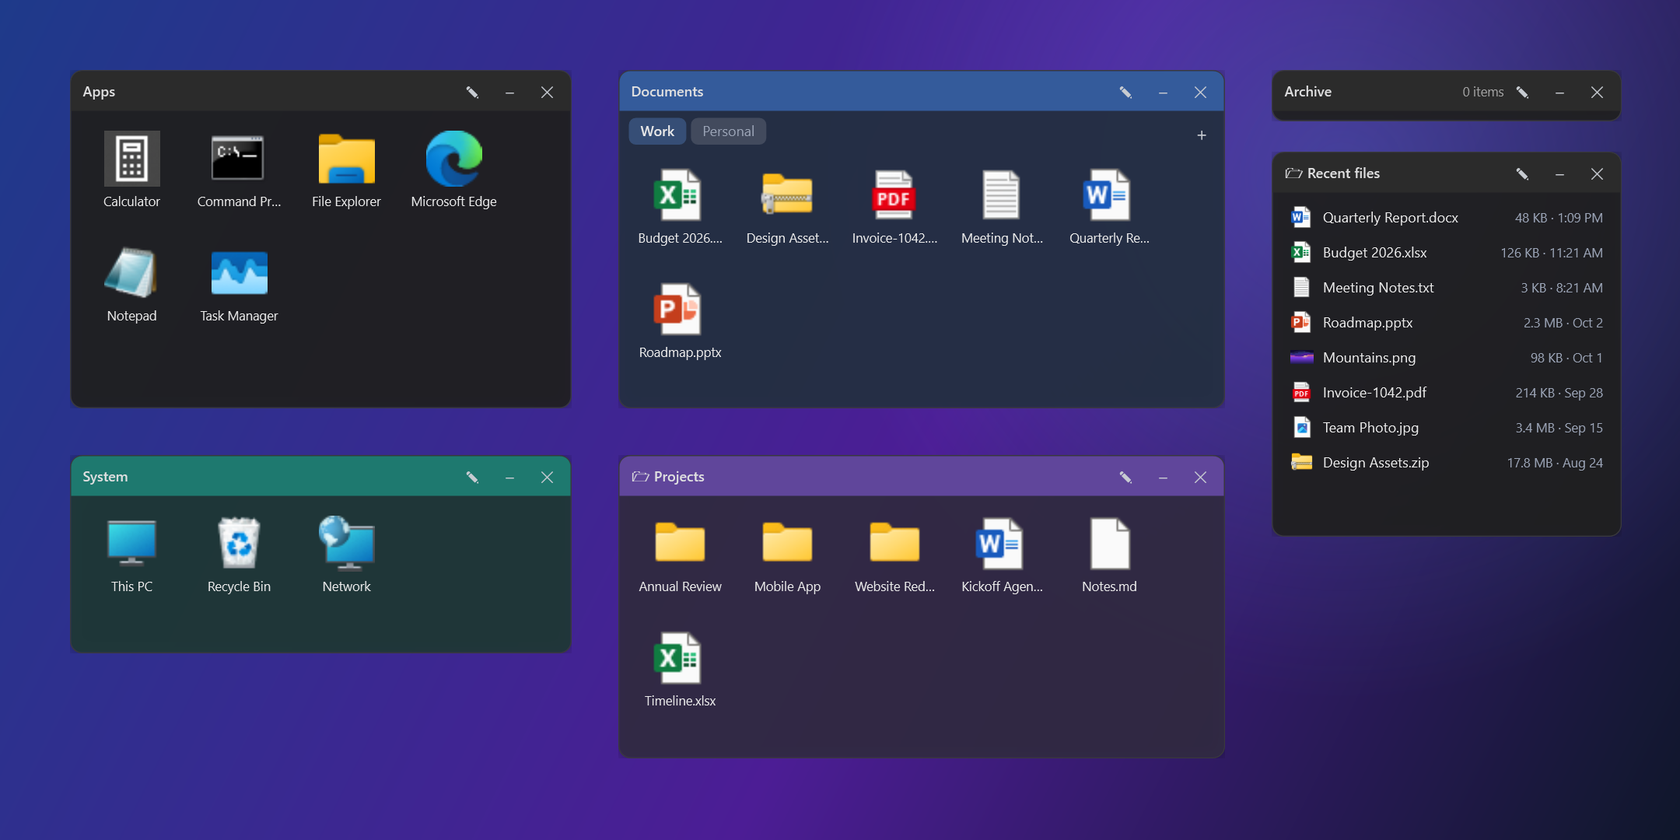
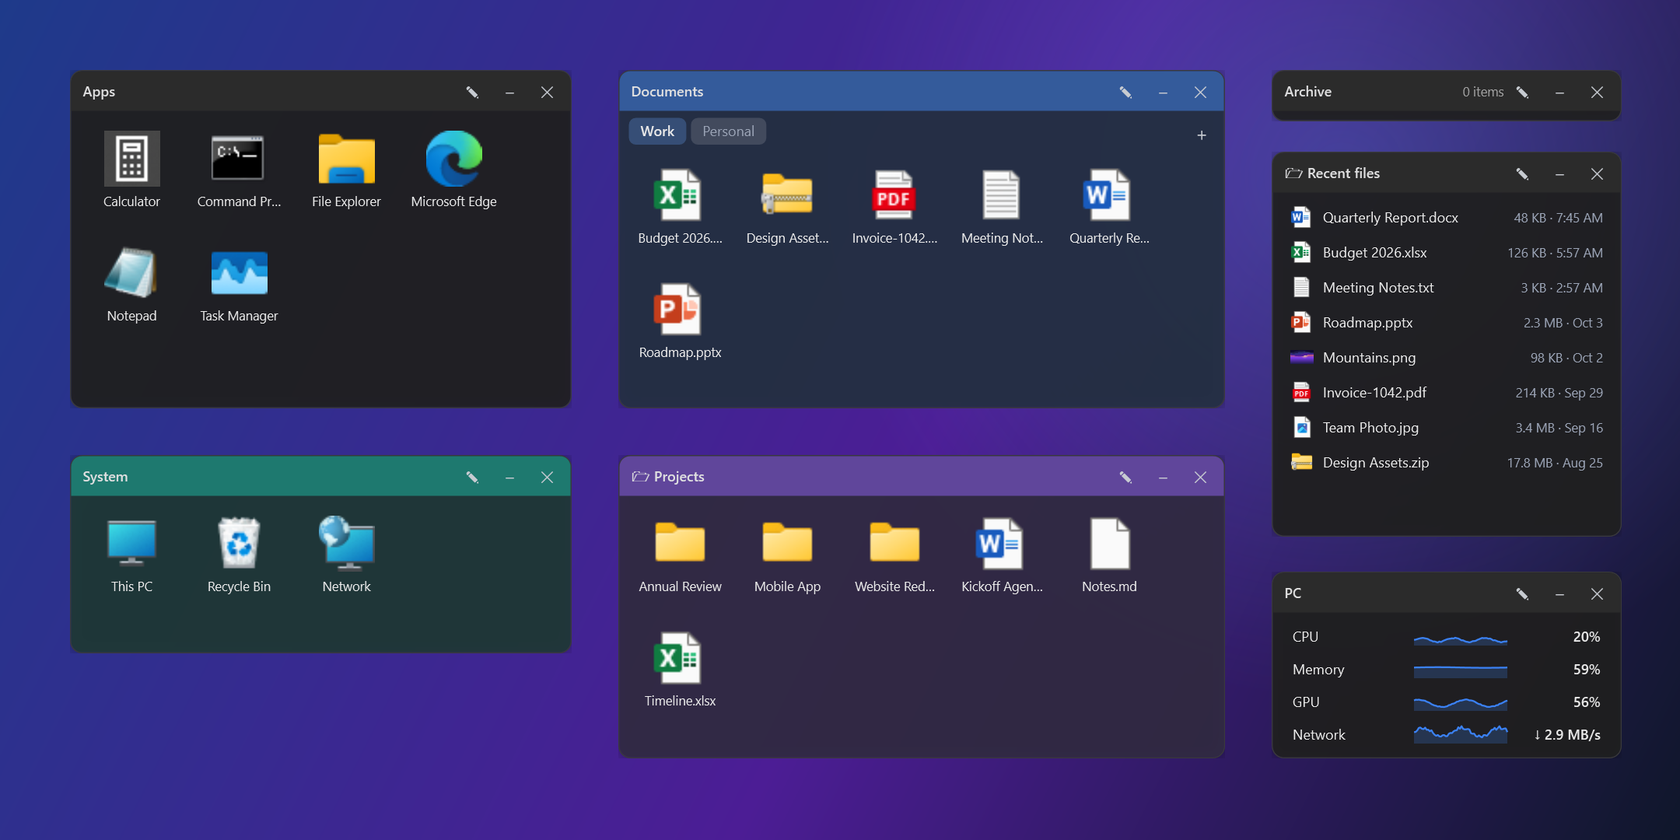
Docs and website: system monitor screenshots and features
- tools/Screenshots renders two new shots with demo readings
  (screenshot-monitor.png, screenshot-monitor-settings.png) and adds a
  list-view monitor to the desktop and search shots; the Home shot shows
  the System monitor tile. All screenshots re-rendered.
- README: a "Watch your PC" feature section, new screenshots, usage line,
  and a known limitation for counter-based tiles.
- Website: System monitor feature card and two sections with the new
  screenshots; updated description.
- Privacy policy: what system monitors read (usage figures and the local
  IP address) and that none of it is saved or sent.

Changed region(s): [[0.7444, 0.6722, 0.9926, 0.9167], [0.8995, 0.2444, 0.9306, 0.3056]]

diff --git a/site/index.html b/site/index.html
@@ -4,7 +4,7 @@
   <meta charset="utf-8">
   <meta name="viewport" content="width=device-width, initial-scale=1">
   <title>Pickets</title>
-  <meta name="description" content="Pickets (formerly OpenFences) is a free, open-source alternative to Stardock Fences that organizes your Windows desktop into movable, resizable fences.">
+  <meta name="description" content="Pickets (formerly OpenFences) is a free, open-source alternative to Stardock Fences that organizes your Windows desktop into movable, resizable fences, with live system monitor fences for CPU, GPU, memory, disk and network.">
   <link rel="icon" href="assets/open-fence.png">
   <link rel="stylesheet" href="styles.css">
 </head>
@@ -35,7 +35,7 @@
       </div>
       <p class="meta">Formerly OpenFences · Free and open source (MIT) · x64 and ARM64 · Updates itself</p>
       <img class="hero-shot" src="assets/screenshot-desktop.png"
-           alt="Fences on a Windows desktop: Apps, Documents and System fences, a Projects folder portal and a rolled-up Archive fence">
+           alt="Fences on a Windows desktop: Apps, Documents and System fences, a Projects folder portal, a rolled-up Archive fence, a Recent files list and a PC system monitor">
     </div>
   </div>
 
@@ -54,6 +54,9 @@
         <div class="feature"><span class="glyph" aria-hidden="true">🗁</span>
           <h3>Folder portals</h3>
           <p>Show any folder as a live fence and browse into its subfolders without opening Explorer.</p></div>
+        <div class="feature"><span class="glyph" aria-hidden="true">📈</span>
+          <h3>System monitor</h3>
+          <p>Live CPU, GPU, memory, disk, network and battery readings with graphs, in a fence you arrange tile by tile.</p></div>
         <div class="feature"><span class="glyph" aria-hidden="true">⌕</span>
           <h3>Search everything</h3>
           <p>Press <kbd>Ctrl</kbd>+<kbd>Alt</kbd>+<kbd>F</kbd> to find any item in any fence. <kbd>Ctrl</kbd>+<kbd>Alt</kbd>+<kbd>H</kbd> hides or shows them all. Both shortcuts can be changed.</p></div>
@@ -90,6 +93,27 @@
       <div>
         <h2>Pictures and videos behind your icons</h2>
         <p class="section-lead">Give any fence a picture or a looping video background. It fades with the fence's transparency, can be darkened so labels stay readable, and pauses while the fence is hidden or rolled up.</p>
+      </div>
+    </div>
+  </section>
+
+  <section id="monitor">
+    <div class="wrap split">
+      <div>
+        <h2>Keep an eye on your PC</h2>
+        <p class="section-lead">A system monitor fence shows live readings right on your desktop: CPU and each of its cores, memory, GPU, free space on every drive, disk and network speed, your connection's address, battery and the time. Add, remove, rename and reorder tiles, turn graphs off, and let warning colors tell you when something's busy, nearly full or running low. Double-click a reading for Task Manager or the matching Windows settings.</p>
+        <p>It reads only what its tiles show, straight from Windows, and stops entirely while it's rolled up, hidden or the PC is locked.</p>
+      </div>
+      <img src="assets/screenshot-monitor.png" alt="A system monitor fence with CPU, memory, GPU, per-core, network, disk activity, drive space and battery tiles, next to a compact list-view monitor">
+    </div>
+  </section>
+
+  <section>
+    <div class="wrap split">
+      <img src="assets/screenshot-monitor-settings.png" alt="Settings, System monitor: update interval, graph length, units, warning colors and the tile editor">
+      <div>
+        <h2>Tuned in Settings</h2>
+        <p class="section-lead">Settings has a System monitor section: choose how often monitors update and how much history the graphs show, switch speeds to Mbps, turn warning colors on or off, and edit any monitor's tiles in one list.</p>
       </div>
     </div>
   </section>

diff --git a/site/privacy.html b/site/privacy.html
@@ -25,7 +25,7 @@
 
 <main class="doc">
   <h1>Privacy policy</h1>
-  <p class="updated">Last updated: October 3, 2026</p>
+  <p class="updated">Last updated: October 5, 2026</p>
 
   <div class="callout">
     <strong>In short:</strong> Pickets doesn't collect, store or share any personal information. It has no
@@ -78,6 +78,9 @@
   </table>
   <p>While it runs, Pickets also reads your desktop folders and their icons and thumbnails (through
   Windows), and hides the normal desktop icons, restoring them when it exits. None of this leaves your PC.</p>
+  <p>System monitor fences, if you add one, read usage figures from Windows (processor, memory, graphics,
+  drives, network adapters, battery) and the local IP address of your network connection, only to show them on
+  your desktop. Readings aren't saved or sent anywhere; the settings file keeps only which tiles each monitor shows.</p>
   <p>Versions released before the rename used the folder <code>%AppData%\OpenFences</code>. The first time
   Pickets starts, it moves that folder to <code>%AppData%\Pickets</code> and updates the "start with Windows"
   entry, so your fences carry over.</p>

diff --git a/tools/Screenshots/Program.cs b/tools/Screenshots/Program.cs
@@ -13,6 +13,7 @@ using System.Windows.Media;
 using System.Windows.Media.Imaging;
 using System.Windows.Threading;
 using Pickets;
+using Pickets.Services;
 
 internal static class Program
 {
@@ -45,7 +46,11 @@ internal static class Program
         try
         {
             _demo = CreateDemoFolder();
+            // System monitors show made-up readings, never this PC's own (its address, drives…).
+            SystemMonitor.ShowFixed(Array.Empty<SystemSnapshot>());
             var fences = BuildFences();
+            var monitors = BuildMonitors();
+            SystemMonitor.ShowFixed(DemoReadings()); // a minute of history for the graphs
 
             // Icons load on a background thread; give them time to arrive.
             After(TimeSpan.FromSeconds(4), () =>
@@ -58,7 +63,9 @@ internal static class Program
                 SaveAppWindow(fences, "screenshot-app-light.png");
                 UsePalette("Dark");
                 SaveQuickLook(fences, "screenshot-quicklook.png");
-                foreach (var f in fences) f.Close();
+                SaveMonitors(monitors, "screenshot-monitor.png");
+                SaveMonitorSettings(monitors[0], "screenshot-monitor-settings.png");
+                foreach (var f in fences.Concat(monitors)) f.Close();
                 Console.WriteLine("Saved screenshots to " + _outDir);
                 System.Windows.Application.Current.Shutdown();
             });
@@ -171,8 +178,79 @@ internal static class Program
                 Sort = FenceSort.DateModified, PortalFilter = ".docx .xlsx .pptx .pdf .txt .jpg .png .zip",
                 Left = 1090, Top = 130, Width = 300, Height = 330
             },
+            // A system monitor in list view.
+            new FenceModel
+            {
+                Name = "PC", IsMonitor = true, View = FenceView.List, Left = 1090, Top = 490, Width = 300, Height = 160,
+                Tiles = Tiles(MonitorMetrics.Cpu, MonitorMetrics.Memory, MonitorMetrics.Gpu, MonitorMetrics.Network)
+            },
         };
+        return Open(models);
+    }
 
+    private static List<MonitorTileConfig> Tiles(params string[] kinds) =>
+        kinds.Select(k => k.StartsWith("disk:") ? new MonitorTileConfig { Kind = MonitorMetrics.Disk, Drive = k[5..] }
+                                                : new MonitorTileConfig { Kind = k }).ToList();
+
+    // The system monitor screenshot: a full monitor with every kind of graph, and a compact one.
+    private static List<FenceWindow> BuildMonitors()
+    {
+        var models = new[]
+        {
+            new FenceModel
+            {
+                // Sized by hand: fitting to contents needs a window on a screen.
+                Name = "System", IsMonitor = true, Left = 50, Top = 50, Width = 520, Height = 392,
+                Tiles = Tiles(MonitorMetrics.Cpu, MonitorMetrics.Memory, MonitorMetrics.Gpu,
+                              MonitorMetrics.Cores, MonitorMetrics.Network, MonitorMetrics.DiskIo,
+                              "disk:C:", "disk:D:", MonitorMetrics.Battery)
+            },
+            new FenceModel
+            {
+                Name = "At a glance", IsMonitor = true, View = FenceView.List, AccentColor = "#14B8A6",
+                Left = 610, Top = 50, Width = 400, Height = 190,
+                Tiles = Tiles(MonitorMetrics.Clock, MonitorMetrics.NetInfo, MonitorMetrics.Cpu, MonitorMetrics.Memory, MonitorMetrics.Battery)
+            },
+        };
+        return Open(models);
+    }
+
+    // A minute of believable, gently changing readings (oldest first). Drive D: is nearly full,
+    // so the warning color shows.
+    private static IEnumerable<SystemSnapshot> DemoReadings()
+    {
+        const long GB = 1024L * 1024 * 1024;
+        var rnd = new Random(42);
+        for (int i = 0; i < 60; i++)
+        {
+            double t = i / 60.0 * Math.PI * 2;
+            double cpu = 24 + 12 * Math.Sin(t * 3) + rnd.NextDouble() * 6;
+            yield return new SystemSnapshot
+            {
+                CpuPercent = cpu,
+                Processors = 12,
+                CoreLoads = Enumerable.Range(0, 12).Select(c => Math.Clamp(cpu + 30 * Math.Sin(c * 1.7 + i / 4.0), 2, 98)).ToList(),
+                MemoryUsed = (ulong)((9.4 + 0.3 * Math.Sin(t)) * GB),
+                MemoryTotal = 16UL * (ulong)GB,
+                GpuPercent = 38 + 22 * Math.Sin(t * 2 + 1) + rnd.NextDouble() * 4,
+                Drives = new[]
+                {
+                    new DriveSample("C:", "Windows", 1000 * GB, 412 * GB),
+                    new DriveSample("D:", "Games", 2000 * GB, 168 * GB),
+                },
+                DiskReadBytesPerSec = (6 + 5 * Math.Max(0, Math.Sin(t * 4))) * 1024 * 1024,
+                DiskWriteBytesPerSec = (1.5 + rnd.NextDouble()) * 1024 * 1024,
+                NetDownBytesPerSec = (2.4 + 1.4 * Math.Sin(t * 2.5) + rnd.NextDouble()) * 1024 * 1024,
+                NetUpBytesPerSec = (280 + 90 * rnd.NextDouble()) * 1024,
+                NetName = "Wi-Fi",
+                NetAddress = "192.168.1.24",
+                Battery = new BatterySample(76, PluggedIn: false, Charging: false, SecondsLeft: 3 * 3600 + 12 * 60),
+            };
+        }
+    }
+
+    private static List<FenceWindow> Open(IEnumerable<FenceModel> models)
+    {
         var windows = new List<FenceWindow>();
         foreach (var m in models)
         {
@@ -182,7 +260,7 @@ internal static class Program
             // Off-screen: rendered to bitmaps, never seen on the real desktop. Moved after Show,
             // since a fence places itself where its model says once its window exists.
             w.Show();
-            w.Left = -30000 + windows.Count * 2000;
+            w.Left = -30000 + _opened++ * 2000;
             w.Top = -30000;
             windows.Add(w);
         }
@@ -190,6 +268,8 @@ internal static class Program
     }
 
     // ---------- Rendering ----------
+
+    private static int _opened;
 
     private const double SceneW = 1440, SceneH = 720;
 
@@ -211,7 +291,8 @@ internal static class Program
         // A soft glow so the wallpaper isn't a flat gradient.
         var glow = new System.Windows.Shapes.Ellipse
         {
-            Width = 900, Height = 900,
+            Width = 900,
+            Height = 900,
             Fill = new RadialGradientBrush(Color.FromArgb(70, 0x60, 0xA5, 0xFA), Color.FromArgb(0, 0x60, 0xA5, 0xFA))
         };
         Canvas.SetLeft(glow, 700);
@@ -244,21 +325,27 @@ internal static class Program
 
     // The main window (Home page), loaded from its XAML with these demo fences listed. The
     // real window can't be created here: its constructor takes over the desktop.
-    private static void SaveAppWindow(List<FenceWindow> fences, string file)
+    private static Window LoadHub(double height)
     {
         var xamlPath = FindRepoFile(Path.Combine("Pickets", "MainWindow.xaml"));
         var xaml = File.ReadAllText(xamlPath).Replace("x:Class=\"Pickets.MainWindow\"", "");
         xaml = Regex.Replace(xaml, @"\s(Click|Checked|PreviewKeyDown|GotKeyboardFocus|LostKeyboardFocus)=""[^""]*""", "");
         xaml = xaml.Replace("Source=\"Themes/HubStyles.xaml\"", "Source=\"pack://application:,,,/Pickets;component/Themes/HubStyles.xaml\"");
         var w = (Window)XamlReader.Parse(xaml);
-        w.Width = 1080; w.Height = 720;
+        w.Width = 1080; w.Height = height;
         w.Left = -40000; w.Top = -40000;
         w.Show();
+        ((TextBlock)w.FindName("SidebarVersion")).Text = ""; // would go stale with every release
+        return w;
+    }
+
+    private static void SaveAppWindow(List<FenceWindow> fences, string file)
+    {
+        var w = LoadHub(720);
 
         T Find<T>(string name) where T : class => (w.FindName(name) as T)!;
         Brush B(string c) => (Brush)new BrushConverter().ConvertFromString(c)!;
         Brush R(string key) => (Brush)System.Windows.Application.Current.FindResource(key); // current palette
-        Find<TextBlock>("SidebarVersion").Text = ""; // would go stale with every release
         Find<Button>("ToggleAllButton").Content = "Hide all fences";
         Find<TextBlock>("SearchTileHint").Text = "Find any item (Ctrl+Alt+F)"; // as the app shows it: never split
         Find<Button>("ProfileButton").Content = "Work  ▾"; // a desktop profile in use
@@ -267,7 +354,8 @@ internal static class Program
         {
             Name = f.FenceName,
             Details = f.IsPortal ? $"Folder portal · {f.ItemCount} items"
-                                 : f.TabCount > 0 ? $"{f.ItemCount} items · {f.TabCount} tabs" : $"{f.ItemCount} items",
+                    : f.IsMonitor ? "System monitor · " + f.MonitorSummary
+                    : f.TabCount > 0 ? $"{f.ItemCount} items · {f.TabCount} tabs" : $"{f.ItemCount} items",
             Swatch = string.IsNullOrEmpty(f.AccentColor) ? R("Hub.Swatch") : B(f.AccentColor!),
             State = f.IsCollapsed ? "Rolled up" : "Shown",
             StateBrush = f.IsCollapsed ? R("Hub.StateRolled") : R("Hub.StateShown"),
@@ -275,11 +363,57 @@ internal static class Program
         }).ToList();
         Find<ItemsControl>("FenceList").ItemsSource = rows;
         Find<TextBlock>("SummaryText").Text =
-            $"{rows.Count} fences · {fences.Where(f => !f.IsPortal).Sum(f => f.ItemCount)} desktop items";
+            $"{rows.Count} fences · {fences.Where(f => !f.IsPortal && !f.IsMonitor).Sum(f => f.ItemCount)} desktop items";
         Flush();
 
         var root = (FrameworkElement)w.Content;
         Save(root, file);
+        w.Close();
+    }
+
+    // Two system monitors over the wallpaper.
+    private static void SaveMonitors(List<FenceWindow> monitors, string file)
+    {
+        // A focused tile would show its keyboard outline: nothing here has seen a mouse.
+        System.Windows.Input.Keyboard.ClearFocus();
+        Flush();
+        var scene = Scene();
+        scene.Width = 1060;
+        scene.Height = monitors.Max(m => ((Point)m.Tag).Y + m.ActualHeight) + 50;
+        foreach (var m in monitors)
+            Place(scene, Snapshot(m), (Point)m.Tag, m.ActualWidth, m.ActualHeight);
+        Save(scene, file);
+    }
+
+    // Settings → System monitor, editing the big monitor's tiles.
+    private static void SaveMonitorSettings(FenceWindow monitor, string file)
+    {
+        var w = LoadHub(1240);
+        T Find<T>(string name) where T : class => (w.FindName(name) as T)!;
+
+        Find<RadioButton>("NavSettings").IsChecked = true;
+        Find<FrameworkElement>("HomePage").Visibility = Visibility.Collapsed;
+        var page = Find<StackPanel>("SettingsPage");
+        page.Visibility = Visibility.Visible;
+        page.DataContext = new AppOptions();
+
+        // Just the page title and the System monitor section (its heading and two cards).
+        int start = page.Children.IndexOf(Find<FrameworkElement>("MonitorSection"));
+        for (int i = 0; i < page.Children.Count; i++)
+            page.Children[i].Visibility = i < 2 || (i >= start && i <= start + 2) ? Visibility.Visible : Visibility.Collapsed;
+
+        Find<Button>("MonitorIntervalButton").Content = "2 seconds  ▾";
+        Find<Button>("MonitorHistoryButton").Content = "2 minutes  ▾";
+        Find<Button>("MonitorPickButton").Content = monitor.FenceName + "  ▾";
+        Find<TextBlock>("MonitorTilesHint").Text = "Choose a monitor, then add, remove, rename and reorder its tiles.";
+        var labels = new Dictionary<string, string> { ["C:"] = "Windows", ["D:"] = "Games" };
+        var tiles = monitor.MonitorConfig;
+        Find<ItemsControl>("MonitorTileList").ItemsSource = tiles
+            .Select((t, i) => new MainWindow.MonitorTileRow(t, i, tiles.Count, t.Drive != null ? labels.GetValueOrDefault(t.Drive) : null, (_, __) => { }))
+            .ToList();
+        Flush();
+
+        Save((FrameworkElement)w.Content, file);
         w.Close();
     }
 

diff --git a/README.md b/README.md
@@ -43,7 +43,6 @@ After that, Pickets checks GitHub for new versions and installs them when you sa
 - **Tabs inside fences.** Split a busy fence into tabs (fence menu → **Add tab…**). Click a tab or press **Ctrl+Tab** to switch, drag tiles onto a tab to move them, right-click a tab to rename or delete it.
 - **Folder portals.** A fence that shows any folder live, including on USB drives and network shares: if the folder can't be reached it shows as unavailable and comes back by itself once it can. Double-click a subfolder to browse into it (with a back button and breadcrumbs); point it at another folder with **Change folder…** or by dropping a folder on it. **Filter…** narrows it to certain files (`.pdf`, `screenshot*`) and/or what changed recently, for a "Recent downloads" or "This week's screenshots" fence.
 - **Recent files.** One click on the Home page adds a fence of the files you opened lately, newest first.
-- **System monitor.** A fence of live readings: CPU, memory, free space on each drive, network speed and battery, with a graph of the last two minutes. Pick what it shows from the fence menu (**Show**), switch it to a compact list with **View → List**, and double-click a reading to open Task Manager, the drive or the matching Windows settings. It only takes readings while you can see it. Add one from the Home page, the tray, or by right-dragging a box on the desktop.
 - **Auto-Import.** One click sorts your desktop into **Apps**, **Documents** and **System** fences.
 - **Auto-organize rules.** New desktop files go straight to the right fence, by type (apps, folders, file extensions), name (`invoice*`), age (not changed in 30 days) or size (larger than 100 MB), and the Desktop fence can be re-sorted on demand.
 - **Drag tiles anywhere.** Onto another fence to move them, within a fence to arrange your own order, or into Explorer, email or any app as real files. Files dragged in from elsewhere can be moved onto the desktop or added as a shortcut.
@@ -60,6 +59,17 @@ After that, Pickets checks GitHub for new versions and installs them when you sa
 - **Quick Look.** Press **Space** on a tile for a large preview: pictures, video and audio with sound, text and code, or file details. Arrow keys step through the fence; Enter opens.
 - **The real Windows right-click menu.** Open with, Send to, Properties and menu entries other apps add, plus **Remove from fence**. **Rename** (or F2) renames the actual file, and it stays in its fence, as do files renamed in Explorer or saved by apps such as Office.
 - **Keyboard friendly.** Arrow keys, Home/End and type-a-letter move through a fence; Space previews, Enter opens, Delete recycles, F2 renames, Esc clears the selection, Backspace goes up a folder in a portal.
+
+### Watch your PC
+
+![A system monitor fence with CPU, memory, GPU, per-core, network, disk activity, drive space and battery tiles, next to a compact list-view monitor](Pickets/Docs/screenshot-monitor.png "System monitor fences")
+
+- **System monitor fences.** Live readings on your desktop, as tiles with a graph of the last few minutes: **CPU**, **CPU cores** (a bar for each core), **memory**, **GPU**, **disk space** for any drive, **disk activity** (read and write speed), **network** speed, **network info** (connection name and IP address), **battery** and a **clock**.
+- **Make it yours.** Add, remove, rename and reorder tiles, and turn any tile's graph off: from the fence menu (**Add tile**, **Edit tiles…**), by right-clicking a tile, or in **Settings → System monitor**. Switch a monitor to a compact list with **View → List**, change the tile size, or give it a color, glass or a background like any fence.
+- **Warning colors.** Readings turn amber, then red, when the CPU, GPU or memory is busy, a drive is nearly full or the battery is low.
+- **One click to the details.** Double-click a tile (or press Enter) to open Task Manager, the drive in Explorer, or the matching Windows settings.
+- **Light on your PC.** Readings come from Windows itself (no extra software, no admin rights) every 1 to 10 seconds, as you choose. A monitor only reads what its tiles show, and nothing at all while it's rolled up, hidden or closed, or while the PC is locked.
+- **Add one** from the Home page, the tray, **Settings → System monitor**, or by right-dragging a box on the desktop.
 
 ### Make it yours
 
@@ -88,11 +98,13 @@ After that, Pickets checks GitHub for new versions and installs them when you sa
 
 ## 📷 Screenshots
 
-![Fences on the desktop: Apps, a Documents fence with Work and Personal tabs, System, a Projects folder portal, a rolled-up Archive fence and a Recent files fence in list view](Pickets/Docs/screenshot-desktop.png "Fences on the desktop")
+![Fences on the desktop: Apps, a Documents fence with Work and Personal tabs, System, a Projects folder portal, a rolled-up Archive fence, a Recent files fence in list view and a PC system monitor](Pickets/Docs/screenshot-desktop.png "Fences on the desktop")
 
 ![The Pickets window: quick actions, desktop profiles and every fence with its state](Pickets/Docs/screenshot-app.png "The Pickets window")
 
 ![The Pickets window in the light theme](Pickets/Docs/screenshot-app-light.png "Light theme")
+
+![Settings → System monitor: update interval, graph length, units, warning colors and the tile editor](Pickets/Docs/screenshot-monitor-settings.png "Settings: System monitor")
 
 ![Quick Look previewing a picture from a fence](Pickets/Docs/screenshot-quicklook.png "Quick Look")
 
@@ -106,7 +118,8 @@ After that, Pickets checks GitHub for new versions and installs them when you sa
 
 ## 🚀 Using Pickets
 
-- **Create a fence:** right-drag a rectangle on empty desktop, or **New fence** on the Pickets window's Home page. The right-drag menu can also put a **folder portal** in that box.
+- **Create a fence:** right-drag a rectangle on empty desktop, or **New fence** on the Pickets window's Home page. The right-drag menu can also put a **folder portal** or a **system monitor** in that box.
+- **Watch your PC:** **System monitor** on the Home page. Right-click a tile to rename, move or remove it, or use **Add tile** in the fence menu; **Settings → System monitor** has the full tile editor, how often it updates, graph length, speeds in bits and warning colors.
 - **Fill it:** drag tiles in from other fences, drop files from Explorer, or use **Auto-import desktop** on the Home page.
 - **Fence options:** right-click a fence's title bar (or click ✎) to rename it, sort, change icon size, add a tab, set a color, background, transparency or title size, lock it, or delete it.
 - **Find something:** **Ctrl+Alt+F**, type, Enter. Or select a tile and press **Space** to preview it.
@@ -183,6 +196,7 @@ Ideas and votes are welcome in [issues](https://github.com/chrisdfennell/Pickets
 - Z-order on the desktop can vary by Windows build; fences are kept in the desktop layer behind normal windows (search and Locate bring them to the front briefly).
 - A folder portal whose folder is missing or on a disconnected drive shows as *(unavailable)* until it can be reached again (checked every few seconds), or until you point it at another folder with **Change folder…**.
 - A global shortcut that another app already uses can't be registered; Settings flags it so you can pick another.
+- System monitor GPU, CPU cores and disk activity tiles read Windows' performance counters. Where those are turned off or missing (some virtual machines, older graphics drivers), the tiles are greyed out in **Add tile** and left off the monitor. Temperatures and fan speeds aren't shown: Windows only offers them through hardware drivers that need admin rights.
 - Background videos need Windows' codecs: MP4 and WMV work out of the box; MKV and WebM may need the free extensions from the Microsoft Store. Animated GIFs show their first frame.
 
 ---
